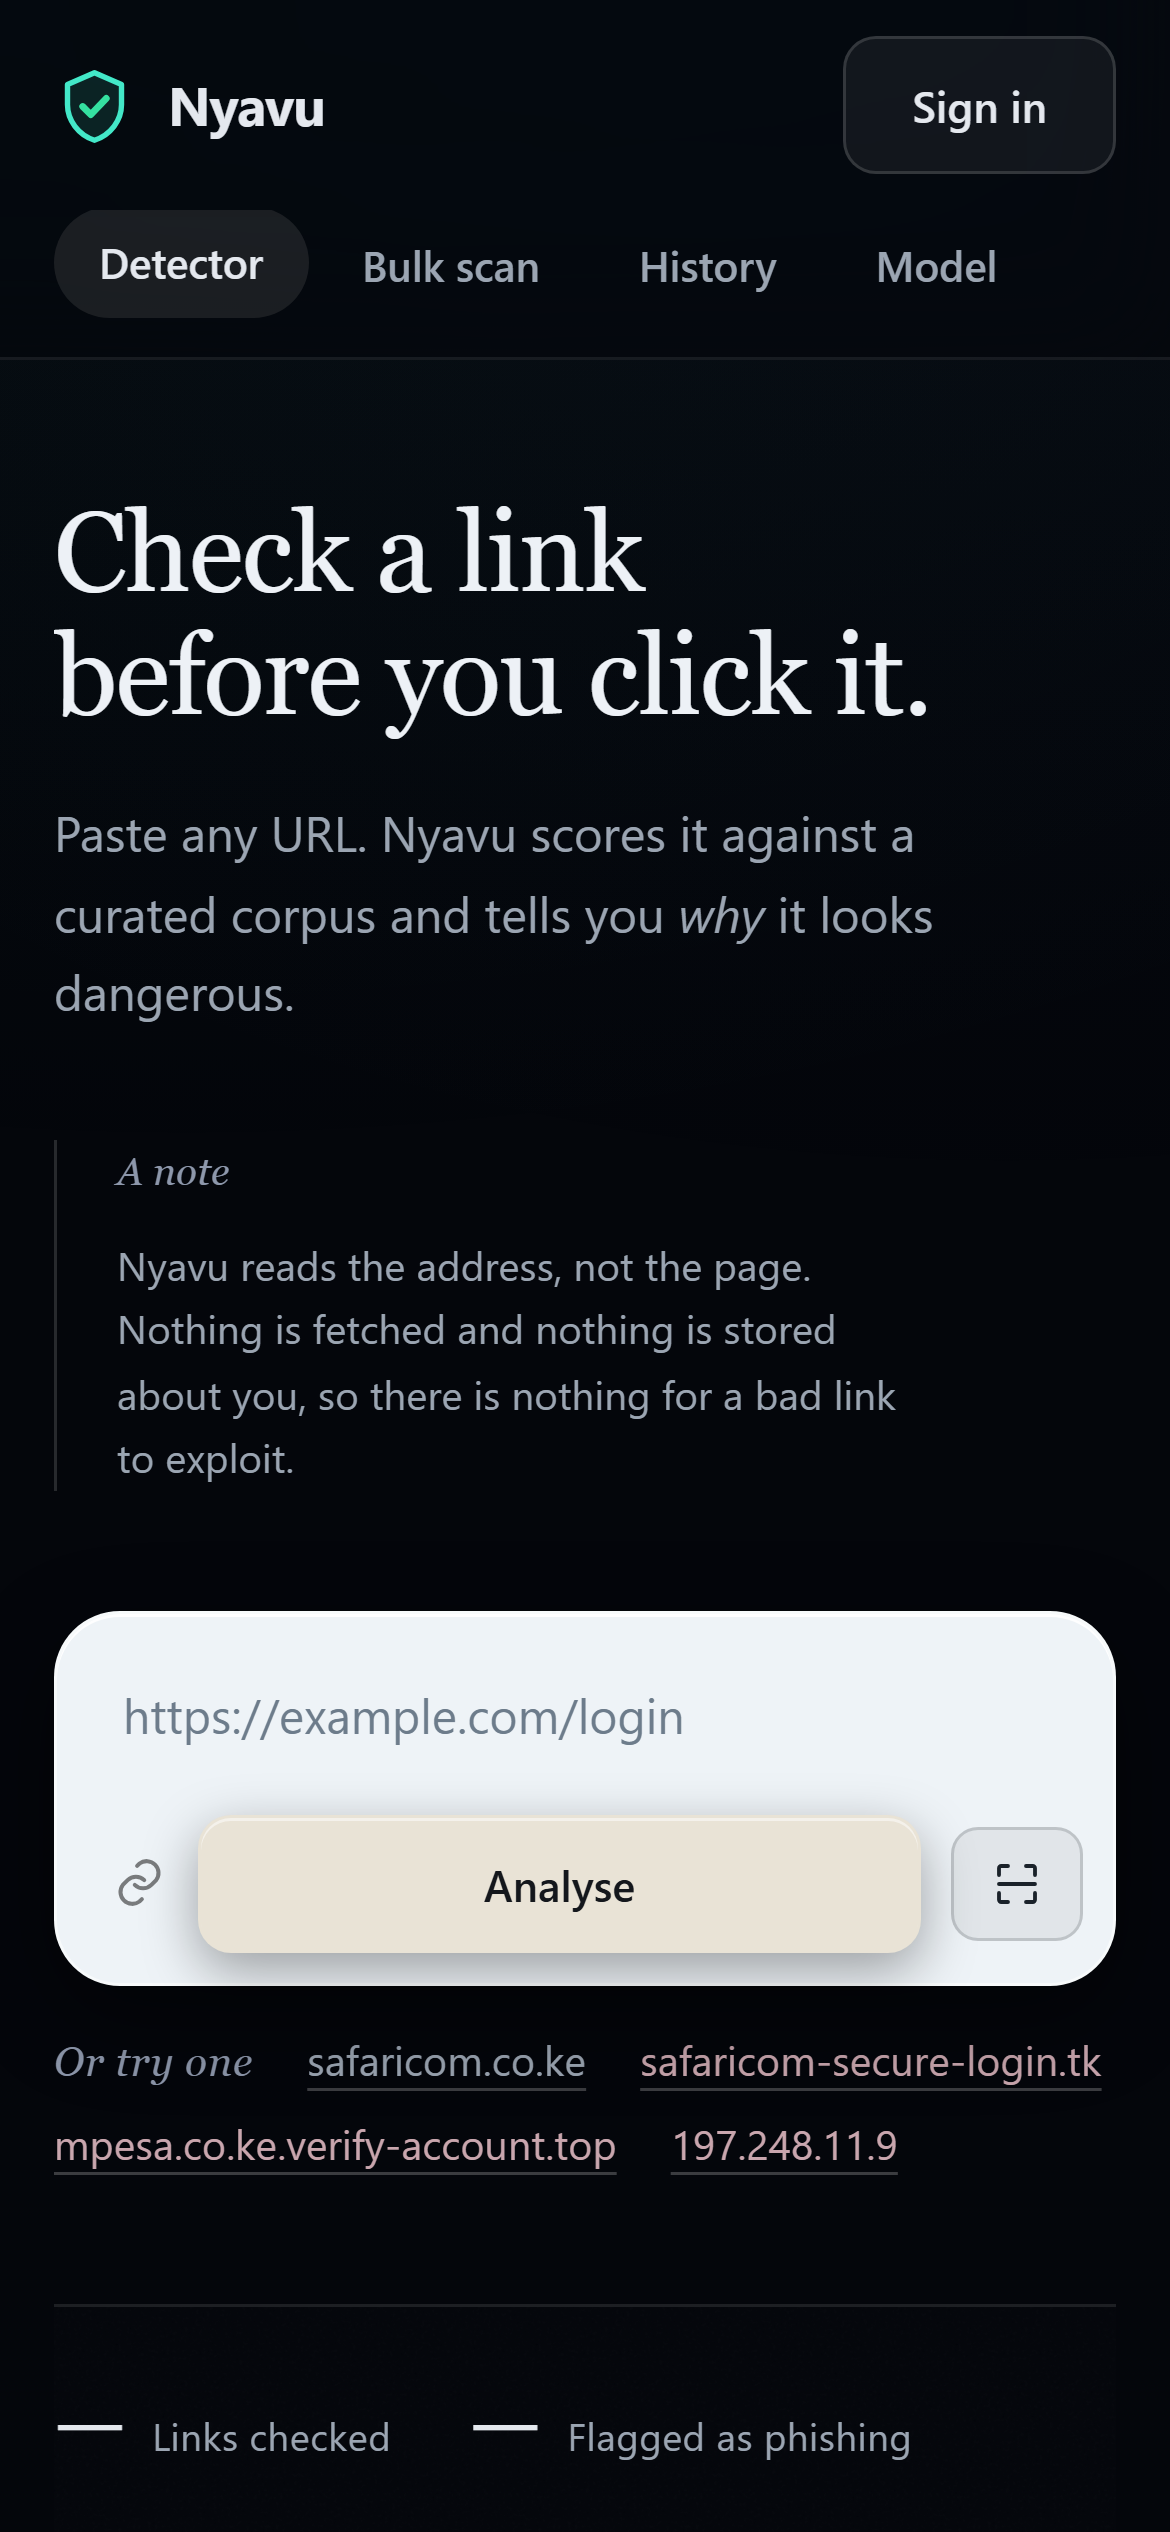
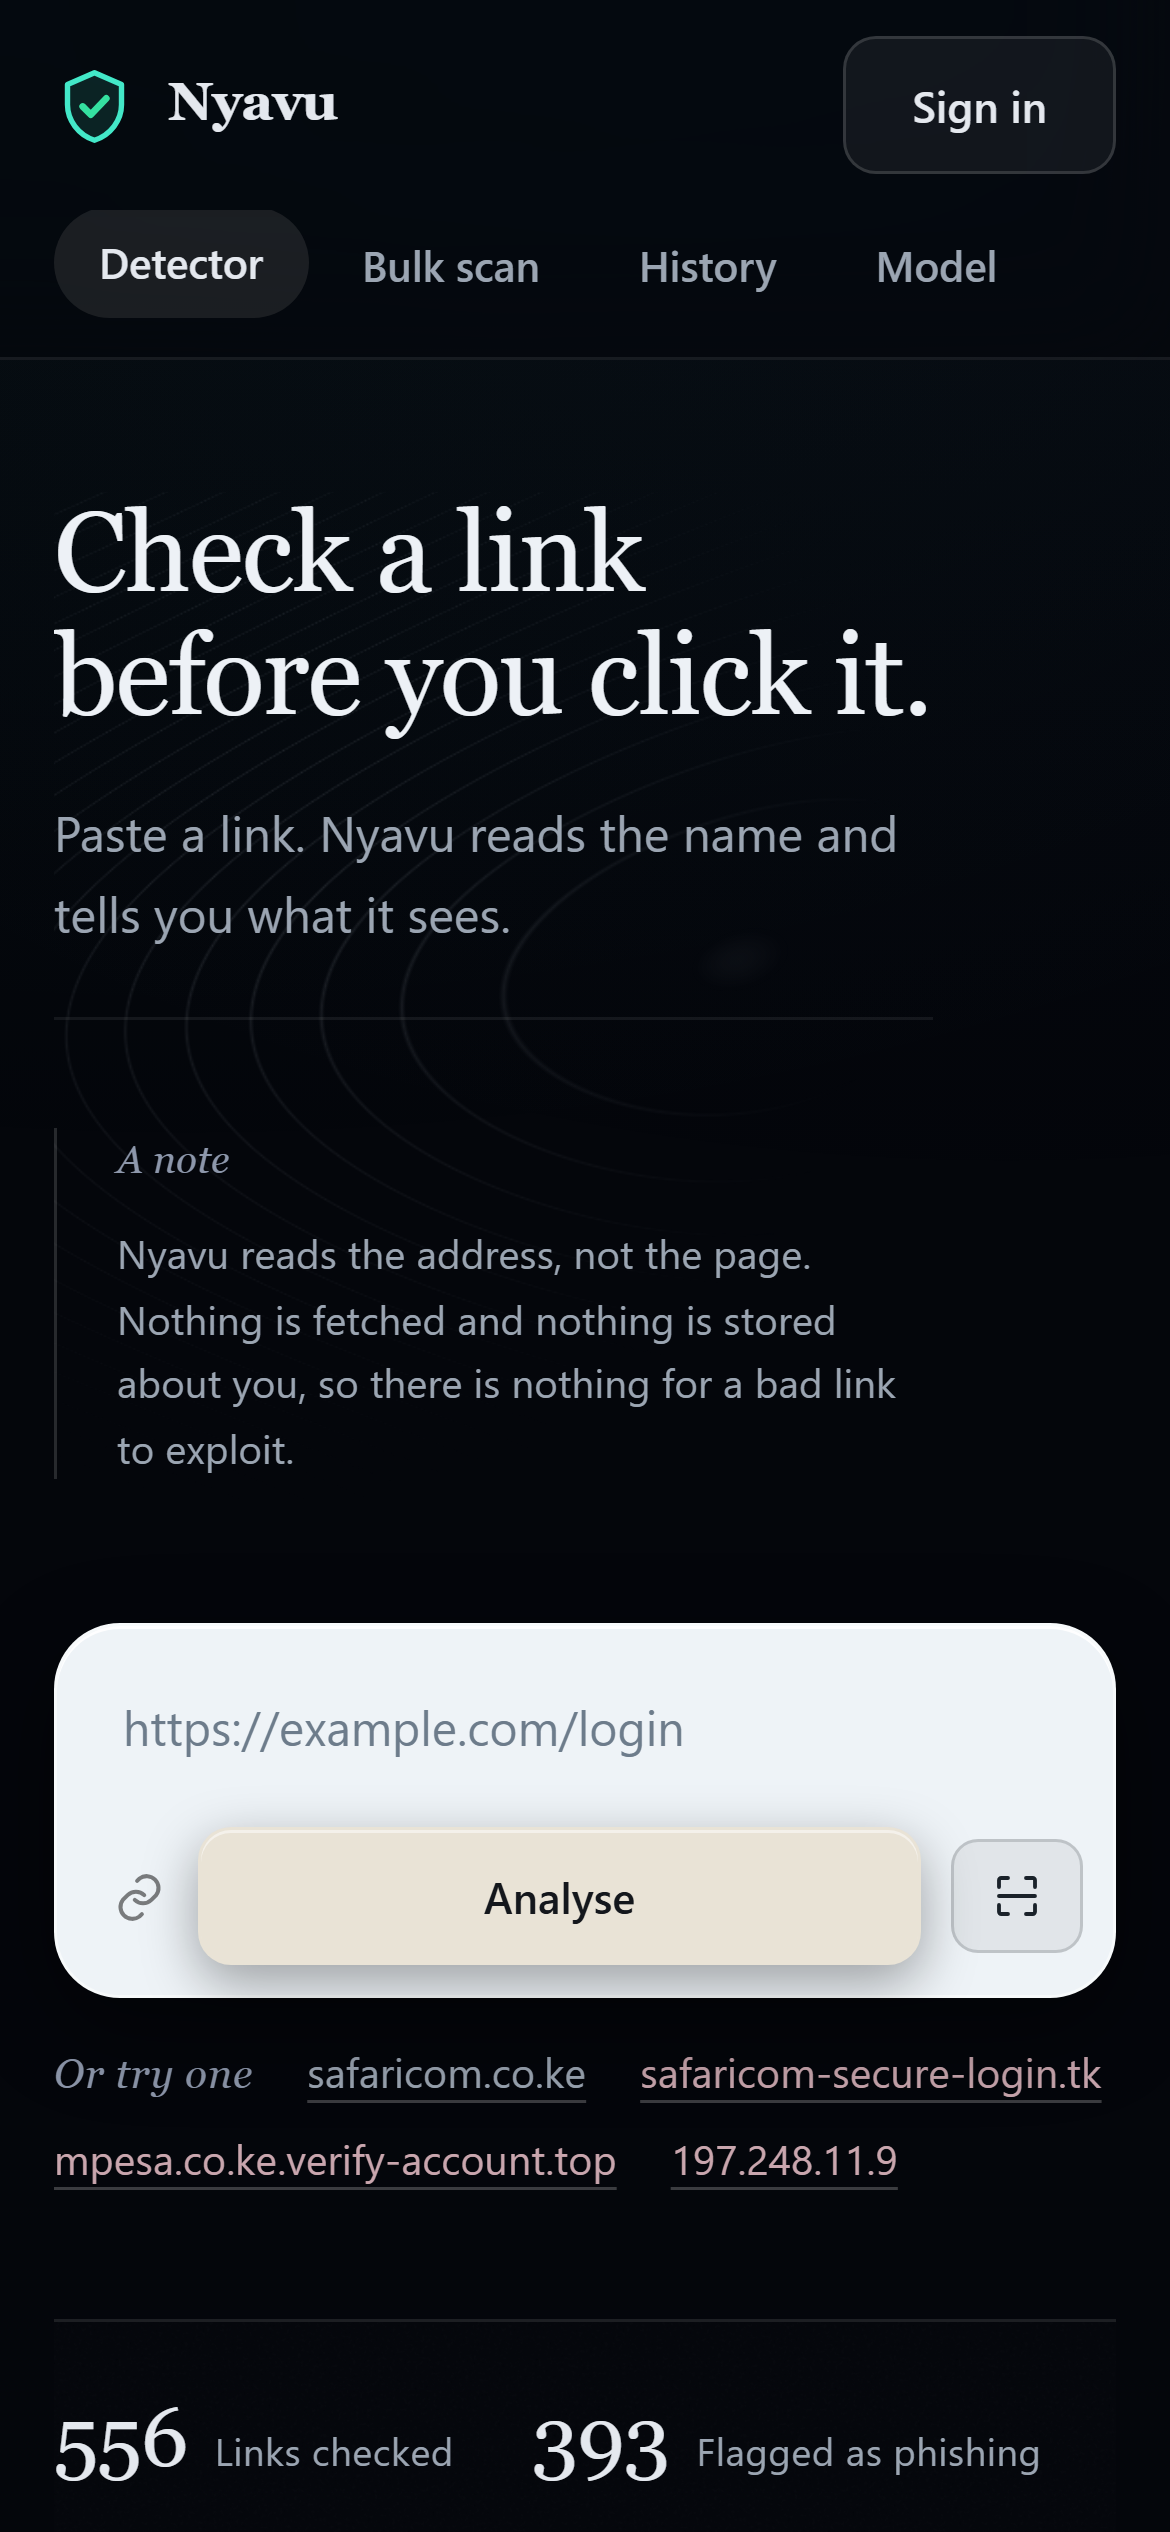
One shade, a verdict set as a statement, and a first screen worth looking at
Card
- the two-tone seam was two leftover washes from the scene era: a mint radial bleeding from
  the top left and a tone wash timed to the old verdict. Both removed, and the pointer
  spotlight with them. The card is a single panel

Verdict marks
- the capsules of capitals are gone. A verdict is a statement, so it is set as one: a
  printed colour swatch, the word in the serif italic, and Established domain as quiet
  text beside it

First screen
- the lede is one sentence instead of three paragraphs, the contour plate carries the
  emptiness behind the headline, and a hairline gives the block a floor

Phones
- the autopsy is one column, each piece as label then its note, instead of two columns with
  a dead one; the dial is smaller and no longer collides with its own caption

Harness
- every probe now clears storage and unregisters the service worker before it navigates.
  The worker caches the shell, CDP cache disabling does not touch it, and three of my
  screenshots this turn were of a stale page as a result. That is the same class of error
  as the cached CSS months of work ago, and it is now structurally impossible in the tools.

diff --git a/app/static/styles.css b/app/static/styles.css
@@ -6035,3 +6035,146 @@ code, kbd, samp {
   -webkit-mask-image: radial-gradient(ellipse 78% 96% at 30% 45%, #000 18%, transparent 82%) !important;
   mask-image: radial-gradient(ellipse 78% 96% at 30% 45%, #000 18%, transparent 82%) !important;
 }
+
+/* =====================================================================
+   One shade, one mark
+
+   The card read as two halves because two decorative washes from the scene era were still
+   painted on it: a mint radial bleeding from the top left, and a tone wash timed to the
+   old verdict. Both are gone. The card is a single panel now.
+
+   The verdict badges were capsules of capitals, which is the house style of a dashboard.
+   A verdict is a statement, so it is set as one: a printed colour swatch, the word in the
+   serif, and the qualifier as quiet text beside it.
+   ===================================================================== */
+.verdict-head::before,
+.result:not(.pending) .verdict-head::after,
+.verdict-head::after,
+.step::after,
+.panel::after,
+.stats-strip::after {
+  display: none !important;
+  animation: none !important;
+}
+
+.result .verdict-text .badge,
+.badge {
+  display: inline-flex;
+  align-items: center;
+  gap: 9px;
+  padding: 0 !important;
+  border: 0 !important;
+  border-radius: 0 !important;
+  background: none !important;
+  box-shadow: none !important;
+  font-family: var(--font-serif) !important;
+  font-size: 1.02rem !important;
+  font-style: italic;
+  letter-spacing: 0 !important;
+  text-transform: none !important;
+  color: var(--text) !important;
+}
+
+.badge::before {
+  content: "";
+  width: 9px;
+  height: 9px;
+  flex: 0 0 9px;
+  background: currentColor;
+  border-radius: 1px;
+  transform: translateY(-1px);
+}
+
+.badge.high { color: #F09AA8 !important; }
+.badge.medium { color: #E8BE7C !important; }
+.badge.low, .badge.safe { color: #8FD9BE !important; }
+
+.badge.rep {
+  color: var(--faint) !important;
+  font-size: 0.92rem !important;
+}
+
+.badge.rep::before {
+  width: 0;
+  flex: 0 0 auto;
+  content: "·";
+  background: none;
+  font-size: 1rem;
+  transform: none;
+}
+
+/* =====================================================================
+   More page, fewer words
+
+   The first screen was three paragraphs of explanation before anything could be looked
+   at. The lede is one sentence now, the plate carries the emptiness, and a hairline under
+   the copy gives the block a floor.
+   ===================================================================== */
+.hero-plated {
+  position: relative;
+  isolation: isolate;
+  padding-bottom: 8px;
+}
+
+.hero-plated::before {
+  content: "";
+  position: absolute;
+  inset: -40px -6% 0 -6%;
+  z-index: -1;
+  background: url("/contours.png") center / cover no-repeat;
+  opacity: .34;
+  -webkit-mask-image: radial-gradient(ellipse 70% 80% at 24% 40%, #000 10%, transparent 78%);
+  mask-image: radial-gradient(ellipse 70% 80% at 24% 40%, #000 10%, transparent 78%);
+  pointer-events: none;
+}
+
+.hero-copy { border-bottom: 1px solid rgba(255, 255, 255, .07); padding-bottom: 22px; }
+
+.hero .lede { max-width: 30ch; }
+
+/* ---------------- phones: the verdict card ---------------- */
+@media (max-width: 700px) {
+  .result .verdict-head {
+    padding: 16px 16px 10px !important;
+    gap: 10px !important;
+  }
+
+  .result .gauge {
+    width: 116px !important;
+    height: 104px !important;
+    margin: 0 !important;
+  }
+
+  .gauge .readout { bottom: 6px !important; }
+  .gauge .readout span { font-size: 1.5rem !important; }
+  .gauge .readout small { font-size: .56rem !important; letter-spacing: .12em !important; }
+
+  .result .verdict-text .badge,
+  .result .stamp,
+  .result .score-note,
+  .result .verdict-url { margin-left: 0 !important; }
+
+  .result .score-note { font-size: .78rem !important; }
+
+  /* one column, each piece as label then note, no dead column */
+  .autopsy-line {
+    grid-template-columns: 1fr !important;
+    gap: 0 !important;
+  }
+
+  .seg {
+    display: grid !important;
+    grid-template-columns: minmax(0, 1fr);
+    gap: 2px;
+    padding: 8px 0 9px !important;
+  }
+
+  .seg-text { font-size: .92rem !important; }
+  .seg-note { max-width: none !important; font-size: .7rem !important; }
+
+  .autopsy { padding: 14px !important; }
+  .autopsy-caption { font-size: .78rem !important; }
+
+  .hero-plated::before { opacity: .28; }
+  .hero .lede { max-width: none; }
+}

diff --git a/app/static/index.html b/app/static/index.html
@@ -58,11 +58,11 @@
 
   <!-- ============================ DETECTOR ============================ -->
   <section id="detector" class="view active">
-    <div class="hero">
+    <div class="hero hero-plated">
       <div class="hero-copy">
 
         <h1>Check a link before you click it.</h1>
-        <p class="lede">Paste any URL. Nyavu scores it against a curated corpus and tells you <em>why</em> it looks dangerous.</p>
+        <p class="lede">Paste a link. Nyavu reads the name and tells you what it sees.</p>
       </div>
       <aside class="hero-note">
         <span class="note-label">A note</span>
